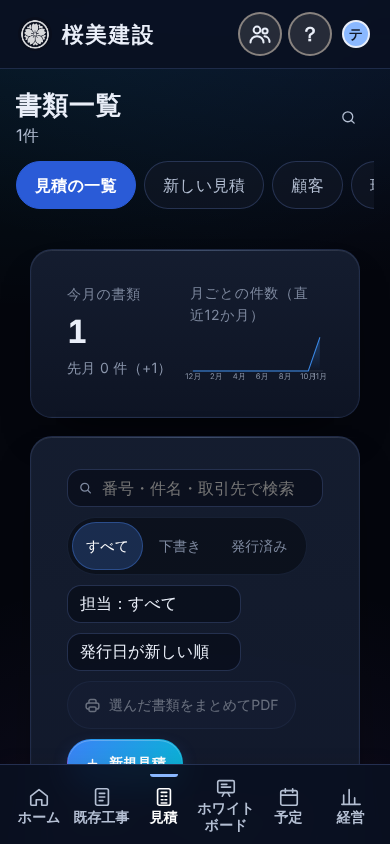
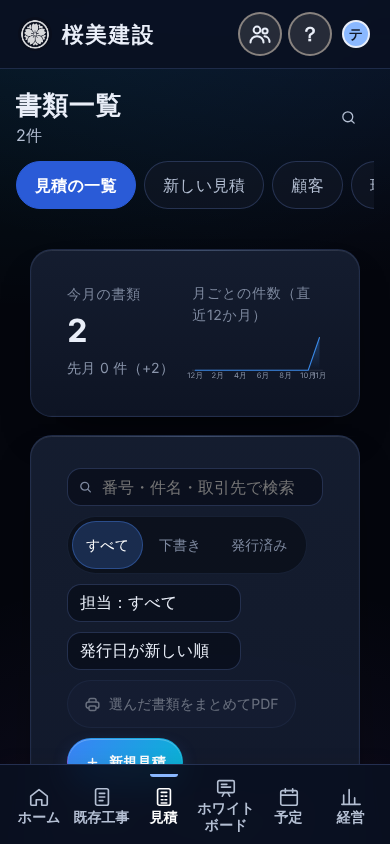
統合：2人同時・試用モードのテスト、ランダム操作のテスト、公開用 zip の作り方、説明書（oubi/README.md）、版を v25 に
Claude-Session: https://claude.ai/code/session_011YfgaKNg5BLHuBJZ1Hhi4R

diff --git a/oubi/tests/monkey.js b/oubi/tests/monkey.js
@@ -1,0 +1,103 @@
+/*
+ * 統合したアプリ（業務管理 × 見積）のランダム操作（モンキーテスト）
+ *   python3 -m http.server 8765 --bind 127.0.0.1   （リポジトリの最上位で）
+ *   node oubi/tests/monkey.js [合計の操作回数=10000] [並列=3] [seed=7]
+ * クリック・入力・選択・キー操作・画面移動（業務管理のメニューと見積の画面の両方）・再読み込みをランダムに行い、操作ごとに確かめる：
+ *   例外・コンソールエラー／画面上の「NaN」「undefined」「[object Object]」「Infinity」／画面の横はみ出し
+ * 本番の Supabase にはつながない（tests/mock-supa.js）。失敗は種類ごとにまとめ、直前の操作の流れを残す。
+ */
+const { chromium } = require('playwright'); const path = require('path'); const fs = require('fs');
+const open = require('./_open');
+const TOTAL = Number(process.argv[2]) || 10000, PAR = Number(process.argv[3]) || 3, SEED = Number(process.argv[4]) || 7;
+const TABS = ['home', 'list', 'mitsu', 'wb', 'cal', 'dash', 'settings', 'staff', 'board', 'sales', 'help', 'docs'];
+const HASHES = ['#/docs', '#/new', '#/new/edit', '#/new/text', '#/new/past', '#/new/template', '#/clients', '#/sites', '#/finance', '#/analysis',
+  '#/settings/items', '#/settings/packages', '#/settings/formulas', '#/settings/snippets', '#/settings/rules', '#/settings/company', '#/settings/data', '#/schedule', '#/site/c1', '#/home'];
+const TEXTS = ['', '0', '-1', '1.5', '99999999999', 'abc', '外壁塗装 100平米', '<b>x</b>', '\'"', '１２３', 'テスト株式会社', ' ', 'a'.repeat(200), '2026-02-30', '1e5', 'フェンス 10m 撤去', '090-1234-5678'];
+const SKIP = '[data-logout], [data-u=signout], [data-act=reset], [data-act=clear-all], [data-act=wipe], input[type=file], a[target=_blank], a[href^=http], a[href^="tel:"], a[href^="mailto:"]';
+const CLICKABLE = 'button:not([disabled]), a[href^="#"], [data-act], [data-href], [data-open], [data-tab], [data-sec], tr.clickable, summary, input[type=checkbox], input[type=radio]';
+const FILLABLE = 'input:not([type=file]):not([type=checkbox]):not([type=radio]):not([disabled]):not([readonly]), textarea';
+const today = new Date().toISOString().slice(0, 10);
+function aCase(id, name, title, extra) {
+  return Object.assign({ id, no: 'OB-202611-0' + id.slice(1).padStart(2, '0'), createdAt: new Date().toISOString(), createdBy: 'u_tester',
+    lead: { date: today, customer: name, tel: '090-0000-00' + id.slice(1).padStart(2, '0'), addr: '東京都町田市森野' + id.slice(1) + '-1', owner: 'u_tester', priority: '中', contacts: [] },
+    work: { title, types: ['外壁塗装工事'] }, plan: {}, quote: { files: [], items: [{ name: '外壁塗装（シリコン）', qty: 100, unit: '㎡', price: 2500 }] },
+    result: {}, schedule: { steps: [], prep: {}, changes: [] }, contract: { files: [] }, complete: { checks: {} }, invoice: { files: [] },
+    payments: [], vendors: [], reports: [], photos: [], actual: {}, log: [] }, extra || {});
+}
+const seed = { cases: {
+  c1: aCase('c1', '山田 太郎', '山田様邸 外壁塗装工事'),
+  c2: aCase('c2', '佐藤 花子', '佐藤様邸 屋根工事', { result: { status: 'won', wonDate: today, amount: 800000 }, schedule: { start: today, end: today, steps: [], prep: {}, changes: [] } }),
+  c3: aCase('c3', '鈴木 一郎', '鈴木様邸 内装', { result: { status: 'lost', reason: '金額が高い' } }) } };
+
+(async () => {
+  const b = await chromium.launch(); const per = Math.ceil(TOTAL / PAR);
+  const failures = new Map(); let done = 0; const t0 = Date.now();
+  async function worker(w) {
+    let s = SEED * 1000 + w; const rnd = () => (s = (s * 1103515245 + 12345) & 0x7fffffff) / 0x7fffffff;
+    const pick = a => a[Math.floor(rnd() * a.length)];
+    const vp = [{ width: 1440, height: 900 }, { width: 390, height: 844 }, { width: 1024, height: 768 }][w % 3];
+    const ctx = await b.newContext({ viewport: vp, acceptDownloads: true });
+    const p = await open(b, { context: ctx, seed, wait: 2500 });
+    ctx.on('page', np => { if (np !== p) np.close().catch(() => {}); });
+    const trail = []; let pending = [];
+    p.on('pageerror', e => pending.push('例外: ' + e.message));
+    p.on('console', m => { if (m.type() === 'error' && !/ERR_FAILED|ERR_ABORTED|Failed to load resource/.test(m.text())) pending.push('コンソール: ' + m.text().slice(0, 160)); });
+    p.on('dialog', d => d.dismiss().catch(() => {}));
+    if (w === 1) await p.evaluate(() => localStorage.setItem('oubi.theme', 'light'));
+    for (let i = 0; i < per; i++) {
+      let act = '';
+      try {
+        const r = rnd();
+        if (r < 0.05) { const t = pick(TABS); act = 'tab ' + t; await p.evaluate(t => window.OUBI && OUBI.setTab(t), t); await p.waitForTimeout(150); }
+        else if (r < 0.09) { const h = pick(HASHES); act = 'goto ' + h; await p.evaluate(h => { location.hash = h; }, h); await p.waitForTimeout(200); }
+        else if (r < 0.10) { act = 'open case'; await p.evaluate(id => window.OUBI && OUBI.openCase(id, 'quote'), pick(['c1', 'c2', 'c3'])); await p.waitForTimeout(150); }
+        else if (r < 0.11) { act = 'reload'; await p.reload(); await p.waitForTimeout(1800); }
+        else if (r < 0.16) { const k = pick(['Escape', 'Enter', 'Tab', 'ArrowDown', 'Alt+2', 'Control+z', 'Control+k', 'Control+s']); act = 'key ' + k; await p.keyboard.press(k); await p.waitForTimeout(40); }
+        else {
+          const kind = r < 0.70 ? 'click' : r < 0.88 ? 'fill' : 'select';
+          const sel = kind === 'click' ? CLICKABLE : kind === 'fill' ? FILLABLE : 'select:not([disabled])';
+          const n = await p.evaluate(([sel, skip]) => {
+            const vis = [...document.querySelectorAll(sel)].filter(e => { const r = e.getBoundingClientRect(); return r.width > 0 && r.height > 0 && getComputedStyle(e).visibility !== 'hidden' && !e.closest(skip) && !e.closest('[hidden]') && !e.closest('[inert]'); });
+            document.querySelectorAll('[data-monkey]').forEach(e => e.removeAttribute('data-monkey'));
+            vis.slice(0, 80).forEach((e, i) => e.setAttribute('data-monkey', i));
+            return Math.min(vis.length, 80);
+          }, [sel, SKIP]);
+          if (!n) { act = 'none → Escape'; await p.keyboard.press('Escape'); }
+          else {
+            const h = p.locator('[data-monkey="' + Math.floor(rnd() * n) + '"]').first();
+            const desc = await h.evaluate(e => e.tagName.toLowerCase() + (e.id ? '#' + e.id : '') + (e.dataset.act ? '[act=' + e.dataset.act + ']' : '') + (e.dataset.tab ? '[tab=' + e.dataset.tab + ']' : '') + ' ' + (e.textContent || e.name || e.placeholder || '').trim().slice(0, 20), null, { timeout: 1000 }).catch(() => '?');
+            if (kind === 'click') { act = 'click ' + desc; await h.click({ timeout: 1500 }).catch(() => {}); }
+            else if (kind === 'fill') { const v = pick(TEXTS); act = 'fill ' + desc + ' = ' + JSON.stringify(v).slice(0, 30); await h.fill(v, { timeout: 1500 }).catch(() => {}); }
+            else { const opts = await h.evaluate(e => [...e.options].map(o => o.value), null, { timeout: 1000 }).catch(() => []); if (opts.length) { const v = pick(opts); act = 'select ' + desc + ' = ' + v; await h.selectOption(v, { timeout: 1500 }).catch(() => {}); } }
+            await p.waitForTimeout(60);
+          }
+        }
+      } catch (e) { act += ' (操作失敗: ' + e.message.split('\n')[0].slice(0, 80) + ')'; }
+      trail.push(act); if (trail.length > 8) trail.shift();
+      const st = await p.evaluate(() => {
+        const txt = (document.body.innerText || '');
+        const bad = (txt.match(/NaN|undefined|\[object Object\]|Infinity/g) || []);
+        const over = document.documentElement.scrollWidth > window.innerWidth + 2;
+        const where = location.hash ? location.hash.split('/').slice(0, 3).join('/') : 'tab:' + ((document.querySelector('#tabs [aria-current="page"]') || {}).dataset || {}).tab;
+        return { bad: [...new Set(bad)], over, where };
+      }).catch(() => null);
+      if (st) {
+        const where = st.where.replace(/doc_\w+|c\d+\b/, 'id');
+        st.bad.forEach(x => pending.push('画面に「' + x + '」が表示 @' + where));
+        if (st.over) pending.push('画面が横にはみ出す @' + where + ' (幅' + vp.width + ')');
+      }
+      pending.forEach(msg => { const key = msg.replace(/\d+/g, '#'); if (!failures.has(key)) failures.set(key, { msg, n: 0, trail: trail.slice(), worker: w, width: vp.width, step: i }); failures.get(key).n++; });
+      pending = [];
+      done++; if (done % 500 === 0) console.log(`  ${done} 回 (${Math.round((Date.now() - t0) / 1000)}秒) 失敗の種類 ${failures.size}`);
+    }
+    await ctx.close();
+  }
+  await Promise.all(Array.from({ length: PAR }, (_, w) => worker(w)));
+  await b.close();
+  console.log(`\n操作 ${done} 回・失敗の種類 ${failures.size}`);
+  const out = [...failures.values()].sort((a, b) => b.n - a.n);
+  out.forEach(f => { console.log(`\n[${f.n}回] ${f.msg}\n  再現（幅${f.width}・tab${f.worker} の ${f.step} 回目まで）:\n    ` + f.trail.join('\n    ')); });
+  fs.mkdirSync(path.join(__dirname, '..', 'screenshots'), { recursive: true });
+  fs.writeFileSync(path.join(__dirname, '..', 'screenshots', 'monkey-report.json'), JSON.stringify(out, null, 1));
+  process.exit(out.length ? 1 : 0);
+})();

diff --git a/oubi/tests/trial.js b/oubi/tests/trial.js
@@ -1,0 +1,25 @@
+/*
+ * 試用モード（Supabase につながらないとき・この端末だけ）でも見積が動くかの確認
+ *   node oubi/tests/trial.js
+ */
+const { chromium } = require('playwright'); const assert = require('assert');
+const BASE = process.env.OUBI_BASE || 'http://127.0.0.1:8765/oubi/index.html';
+(async () => {
+  const b = await chromium.launch(); const p = await b.newPage(); const errs = [];
+  const ok = (c, m) => { assert.ok(c, m); console.log('✓ ' + m); };
+  p.on('pageerror', e => errs.push(e.message));
+  await p.route(/jsdelivr|googleapis|gstatic|cloudflare|gsi\.go\.jp|open-meteo/, r => r.abort());
+  await p.goto(BASE); await p.evaluate(() => localStorage.clear()); await p.reload(); await p.waitForTimeout(2500);
+  ok(/試用モード/.test(await p.textContent('#main')), '試用モードで起動');
+  await p.evaluate(() => { const c = OUBI.makeCase({ customer: '試用 花子', tel: '090-9999-0000' }); c.work.title = '試用様邸 外構'; OUBI.touch(c); });
+  await p.waitForTimeout(1200);
+  const id = await p.evaluate(() => OUBI.cases()[0].id);
+  await p.evaluate(id => OUBI.openCase(id, 'quote'), id); await p.waitForTimeout(800);
+  await p.click('[data-mnew]'); await p.waitForTimeout(1500);
+  ok(/^#\/edit\//.test(await p.evaluate(() => location.hash)), '試用モードでも見積を作れる');
+  await p.click('#btn-save'); await p.waitForTimeout(1200);
+  await p.reload(); await p.waitForTimeout(2500);
+  ok(await p.evaluate(() => EE.S.documents.length === 1 && !!JSON.parse(localStorage.getItem('oubi.mitsu.v1')).mitsu_docs), '試用モードの見積はこの端末に残る（oubi.mitsu.v1）');
+  console.log(errs.length ? 'ERRORS: ' + errs.join(' / ') : 'trial: ok'); await b.close();
+  if (errs.length) process.exit(1);
+})();

diff --git a/oubi/tests/integration.js b/oubi/tests/integration.js
@@ -78,6 +78,20 @@ function aCase(id, over) {
     ok(Object.values(d.cases).some(c => ((c.lead || {}).company || (c.lead || {}).customer) === '鈴木 一郎'), '見積の画面で登録した顧客は、業務管理の工事（問い合わせ）になる');
   }
 
+  // 2人目（別のタブ＝別の社員のまね）が見積を作ると、1人目の画面にも届く
+  const p2 = await p.context().newPage();
+  await p2.route(/supa\.js(\?.*)?$/, r => r.fulfill({ contentType: 'text/javascript', body: 'window.MOCK_ME=' + JSON.stringify({ id: 'u_tester', isOwner: true, name: 'テスト太郎' }) + ';\n' + fs.readFileSync(path.join(__dirname, 'mock-supa.js'), 'utf8') }));
+  await p2.route(/jsdelivr|googleapis|gstatic|cloudflare|gsi\.go\.jp|open-meteo/, r => r.abort());
+  await p2.goto(open.BASE); await p2.waitForTimeout(2500);
+  await p.evaluate(() => { location.hash = '#/docs'; }); await p.waitForTimeout(1000);
+  const n0 = await p.evaluate(() => EE.S.documents.length);
+  await p2.evaluate(() => OUBI.openCase('c3', 'quote')); await p2.waitForTimeout(500); await p2.click('[data-mnew]'); await p2.waitForTimeout(1500);
+  await p2.click('#btn-save'); await p2.waitForTimeout(1500);
+  await p.waitForTimeout(1500);
+  ok(await p.evaluate(n => EE.S.documents.length === n + 1, n0), '別の人が作った見積が、開いている一覧にも届く');
+  ok((await db()).cases.c3.quote.mitsuDocId, '別の人の見積も、その工事の「見積と利益」に入る');
+  await p2.close();
+
   // スマホ幅
   await p.setViewportSize({ width: 390, height: 844 }); await p.evaluate(() => { location.hash = '#/docs'; }); await p.waitForTimeout(1200);
   await p.screenshot({ path: OUT + 'int-mobile-docs.png' });

diff --git a/oubi/health.js b/oubi/health.js
@@ -5,7 +5,7 @@
    1) 不具合の記録（Sentry の代わり）  2) 実際のスマホでの速さ（Google の web-vitals：LCP・INP・CLS）
    3) 使った人数と画面（どこが使われているか）  4) 満足度（うまくいったあとに一度だけ聞く）
    管理者は「設定 → アプリの調子」で見られる。名前・電話などのお客様の情報は記録しない。 */
-const HL={q:[],sent:0,day:null,tabs:{},dirty:false,ver:'v24'};
+const HL={q:[],sent:0,day:null,tabs:{},dirty:false,ver:'v25'};
 const hlDay=()=>{const d=new Date();return d.getFullYear()+'-'+String(d.getMonth()+1).padStart(2,'0')+'-'+String(d.getDate()).padStart(2,'0')};
 function hlDev(){try{let d=localStorage.getItem('oubi.dev');if(!d){d='d'+Math.random().toString(36).slice(2,10);localStorage.setItem('oubi.dev',d)}return d}catch(e){return 'd0'}}
 const hlReady=()=>typeof mode!=='undefined'&&mode==='db'&&typeof db!=='undefined'&&db&&typeof me!=='undefined'&&me.id;

diff --git a/oubi/README.md b/oubi/README.md
@@ -1,0 +1,74 @@
+# 桜美建設 業務管理（見積「桜ミツ」統合版・v25）
+
+業務管理アプリ（v24・営業台帳・今日のボードなど）を土台に、見積アプリ「桜ミツ」（`../easy-estimate`）を中に入れたもの。
+公開先は業務管理の住所（https://oubi-kensetsu.netlify.app）。
+
+## 何が変わったか
+
+| | 内容 |
+|---|---|
+| メニュー | 「見積」を追加（ホーム・既存工事・**見積**・ホワイトボード・予定・経営・設定） |
+| 見積の画面 | 見積の一覧・新しい見積（表・文章・過去の見積・テンプレート・PDF読み込み）・顧客・現場の流れ・粗利と会計・分析・品目と見積の設定 |
+| 工事の「見積と利益」 | ② 見積書 を桜ミツの見積に置き換え。「見積を作る」で、前に入れた明細を読み込んで桜ミツの編集画面が開く。保存すると、明細・金額・見積番号・日付が工事に入り、① 収支書にも見積の金額と原価（材料・労務・外注・その他）が入る。契約書・請求書・利益・承認は今までどおり工事の値で動く |
+| 顧客・現場 | 業務管理の「工事」に一本化。桜ミツの顧客＝工事の顧客名・電話番号が同じものを1人にまとめたもの、現場＝工事1件。見積の画面で顧客や案件を新しく作ると、工事（問い合わせ）が1件できる |
+| 担当者 | 業務管理の社員と同じ。見積の設定に「担当者」は出さない（社員一覧で増やす） |
+| ホーム | 上は今日のボード・営業に出る・新規工事・既存工事（今までどおり）。下に桜ミツのウィジェット（人ごとに並べ替え・役割ごとの型） |
+| 経営・設定 | 経営から「粗利・会計」「分析」「現場の流れ」へ。設定に「画面の明るさ」「見積の設定」 |
+| 見た目 | 桜ミツに合わせた紺の地・すりガラスのカード・青の主ボタン。**暗い画面が標準**、設定で明るい画面・端末に合わせるも選べる。営業の画面の「外で見やすい明るい画面（昼は自動）」はそのまま |
+| 基準 | 10画面＋営業の画面 × 暗い/明るい × パソコン/スマホで、文字と背景の濃さ不足 0 か所・14px未満の文字 0 か所（A4の書類の見本は除く） |
+
+## 保存先
+
+業務管理と同じ Supabase の `docs` 表に、種類（col）を分けて入れる。表を新しく作る必要はない。
+
+| col | id | 中身 |
+|---|---|---|
+| `mitsu` | `master` | 品目マスタ・テンプレート・計算式・定型文・計算の決まり・ロゴ・会社印など |
+| `mitsu_docs` | 書類ID | 見積書1通ずつ（同時に別の見積を直しても上書きし合わない） |
+| `mitsu_home` | 社員ID | その人のウィジェットの並び・お気に入り |
+| `cases` | 工事ID | 今までの工事。見積から書き戻すのは `quote`（明細・金額など）、`plan`（収支書）、`mitsu`（採用した見積・現場メモ） |
+
+会社名・住所・電話・登録番号・振込先・代表者は、業務管理の設定（`settings/main` の `company`）と同じものを使う。
+
+**公開したら最初に確かめること**：見積を1つ保存して、「見積を保存できませんでした（保存先の許可がありません）」が出ないか。
+出たら、Supabase の `docs` 表の書き込みの決まり（Row Level Security）が、col の名前で制限している可能性がある。
+Supabase の SQL Editor で次を実行すると、今の決まりを読める（読むだけで、何も変えない）：
+
+```sql
+select policyname, cmd, qual, with_check from pg_policies where tablename = 'docs';
+```
+
+## 作り方・公開のしかた
+
+```sh
+node oubi/tools/build-mitsu.js      # 桜ミツ（easy-estimate）を直したら：mitsu.js・mitsu.css を作り直す
+sh oubi/tools/package.sh            # 公開用の zip（oubi-公開用.zip）を作る。テスト・道具は入れない
+```
+
+zip を Netlify の Deploys に置くと公開される。vendor/（PDF・画像の読み取り）を含むので約11MB。
+
+- `mitsu.js` … 桜ミツのプログラムを1つにまとめたもの（自動生成）
+- `mitsu.css` … 桜ミツの見た目。すべて `.ee` の中だけに効くよう書き換え、明るい画面用の色も自動で作る（自動生成）
+- `mitsu-bridge.js` … つなぎ（保存先・工事との変換・画面の切り替え）
+- `mitsu-host.css` … 見積の画面を業務管理の中に置くための見た目
+- `theme-oumitsu.css` … 業務管理の見た目を桜ミツに合わせる
+
+## テスト
+
+リポジトリの最上位で `python3 -m http.server 8765 --bind 127.0.0.1` を動かしてから：
+
+```sh
+node oubi/tests/integration.js   # つなぎの確認（工事→見積→工事、顧客の登録、2人同時、スマホ幅）
+node oubi/tests/trial.js         # 試用モード（この端末だけ）
+node oubi/tests/a11y.js          # 濃さと文字の大きさ（axe-core が必要）
+node oubi/tests/monkey.js 10000  # ランダム操作
+```
+
+テストは `tests/mock-supa.js`（共有モードのまね）を使い、本番の Supabase には一切つながない。
+本番の Supabase での動き（合言葉で入ったあと・本物の通信）は、合言葉を持っていないので試していない。
+
+## まだのこと
+
+- 見積の確定（電子帳簿保存法に合わせた写し）は桜ミツの「確定してPDFとして保存」で行う。業務管理の承認の「見積書のPDF」は、桜ミツで確定済みならアップロード無しで満たしたことにする
+- 桜ミツの請求書メーカーへの書き出しとの関係（業務管理 v22 の機能）は今までどおり工事の明細から
+- 起動の速さ：桜ミツの部品（約0.5MB）を後から読むようにしたが、Lighthouse での測り直しはまだ
